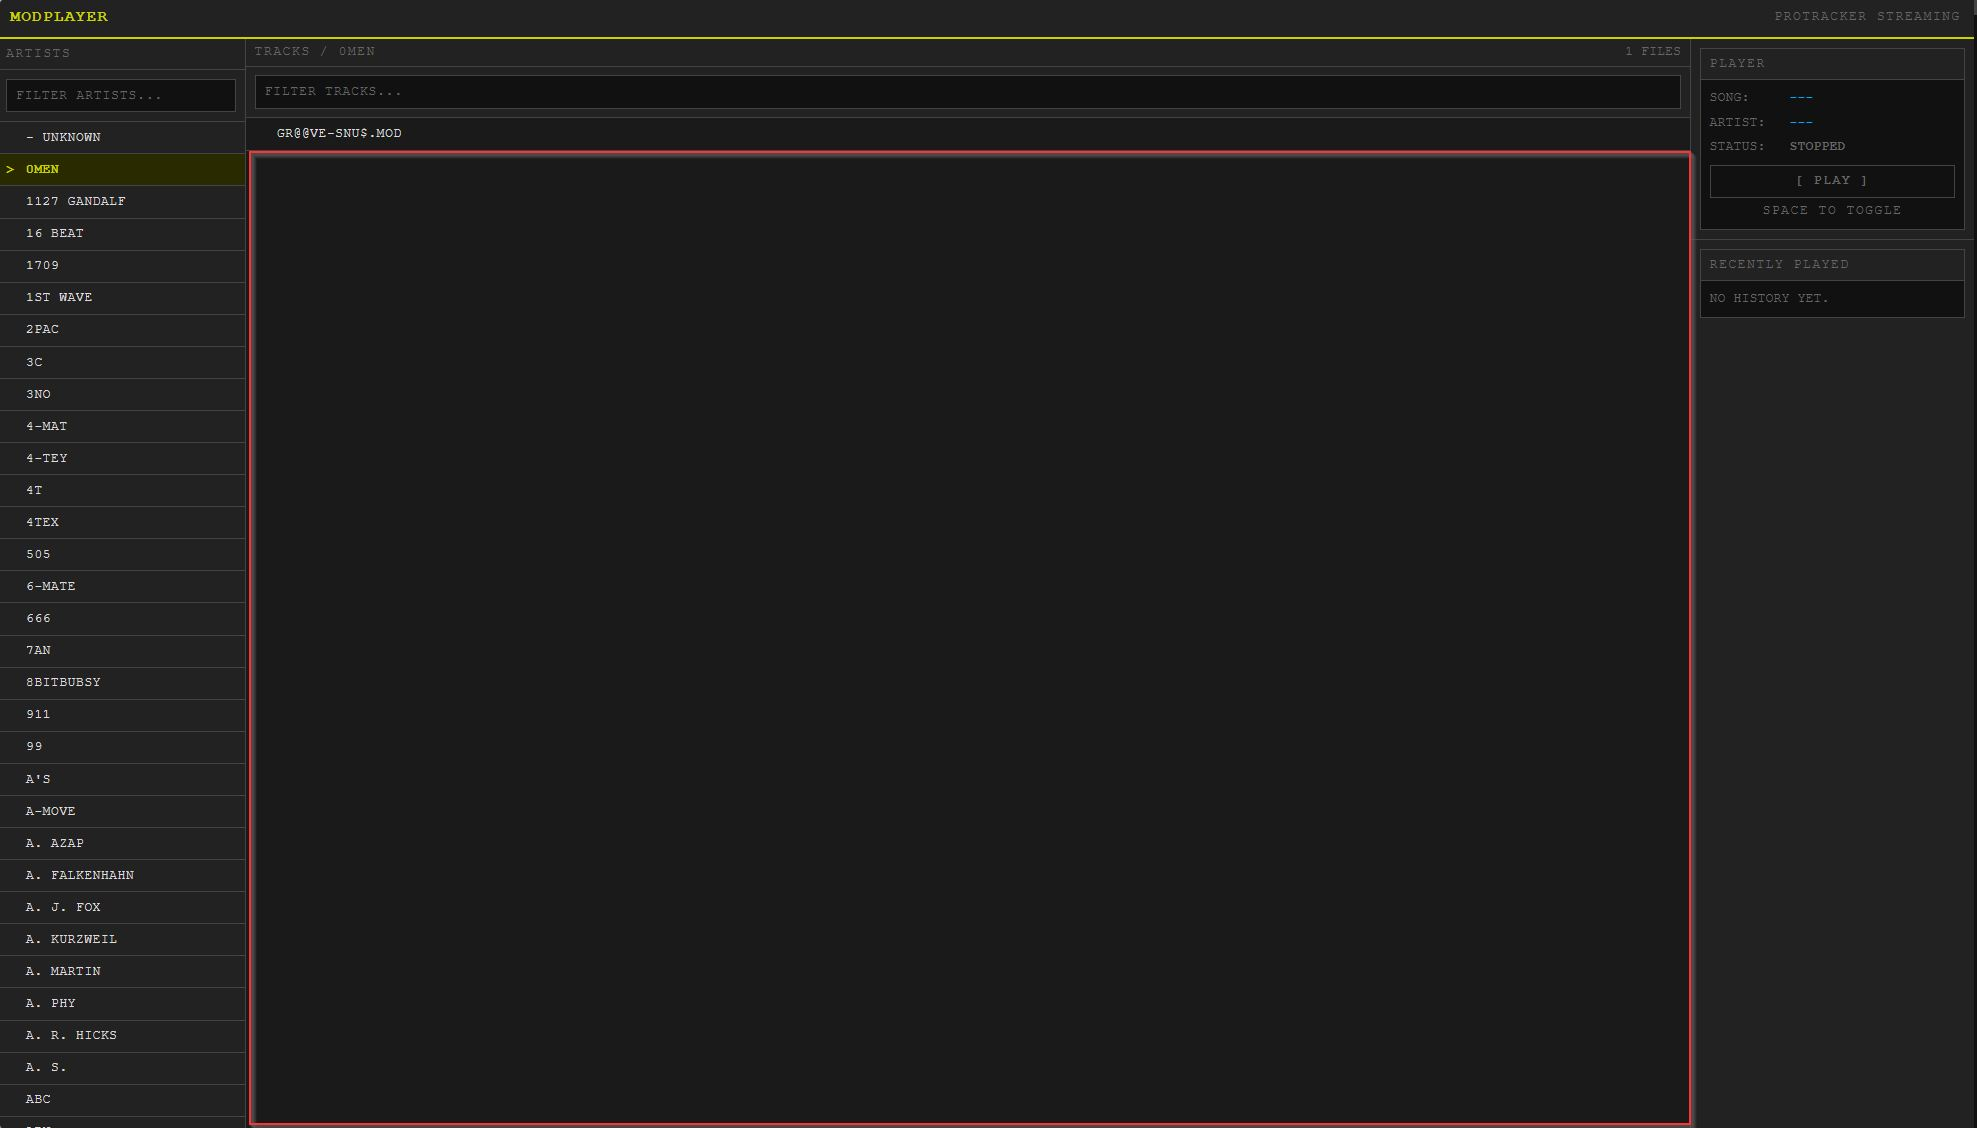
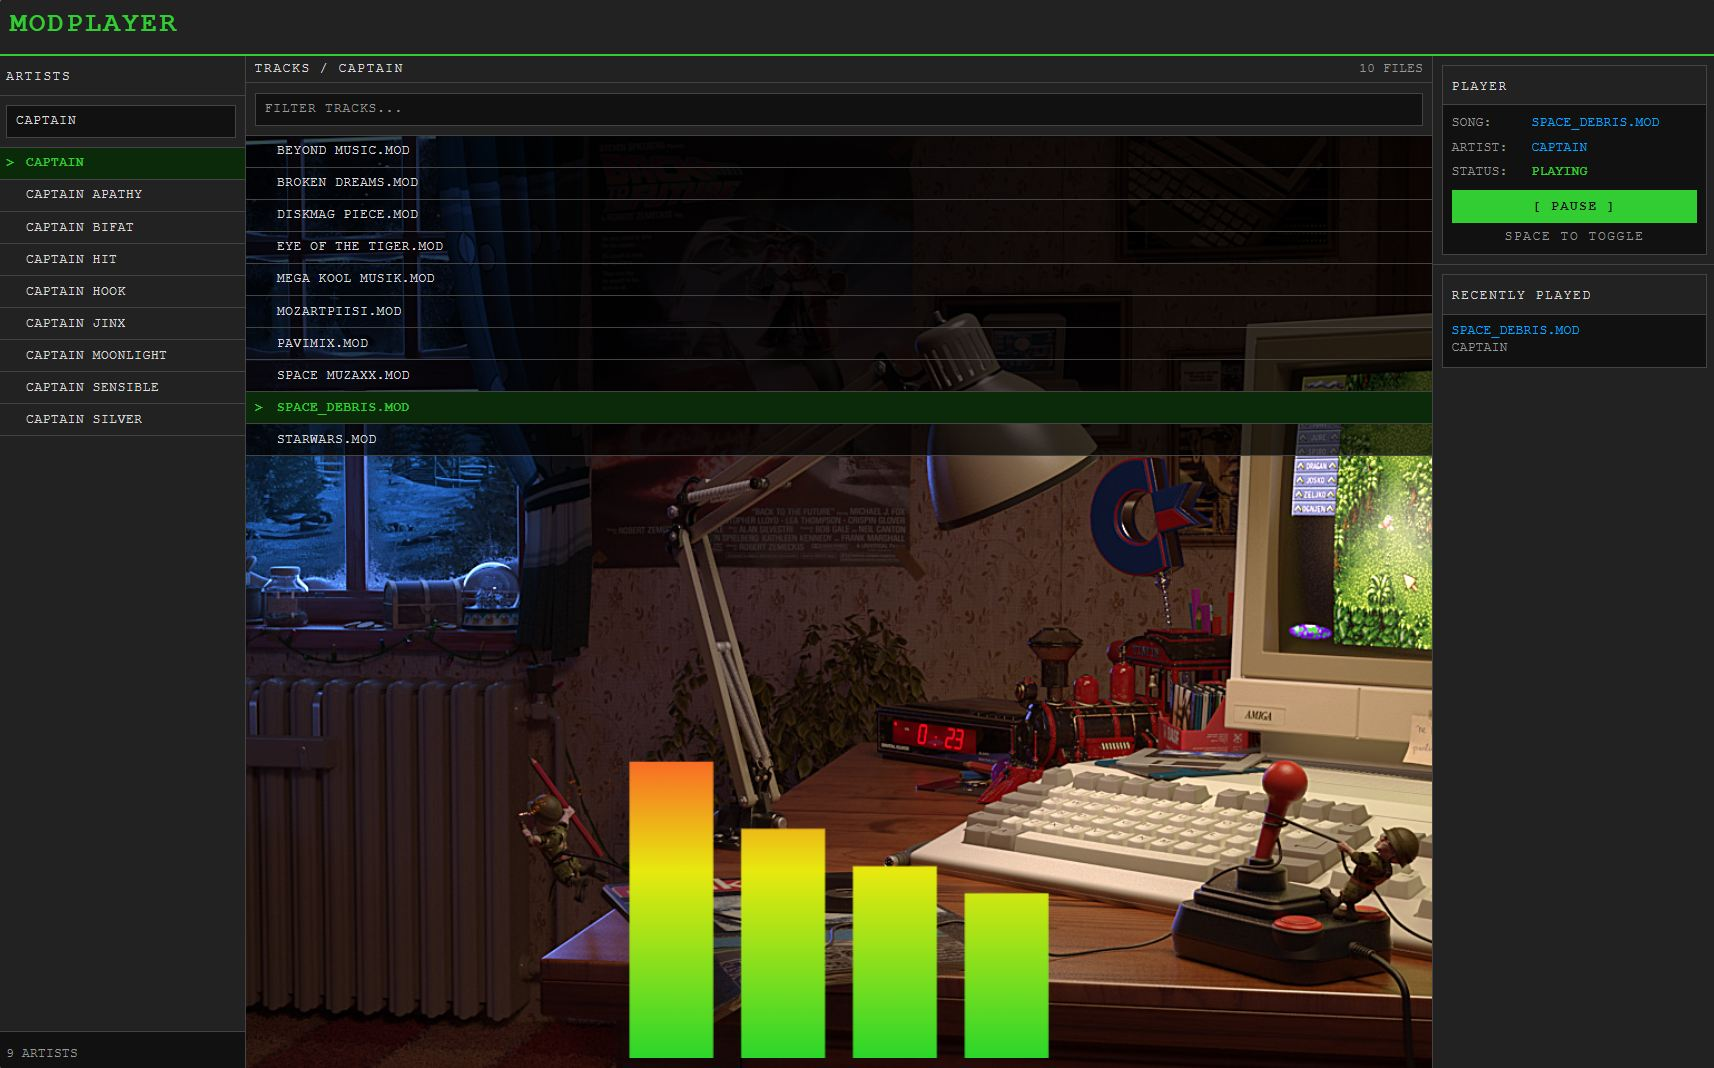
Final 1.0b

diff --git a/src/components/TrackList.tsx b/src/components/TrackList.tsx
@@ -2,10 +2,21 @@ interface Props {
   tracks: string[]
   creator: string
   currentUrl: string | null
+  favouriteUrls: Set<string>
+  favouritesFull: boolean
   onPlay: (name: string) => void
+  onToggleFavourite: (name: string) => void
 }
 
-export function TrackList({ tracks, creator, currentUrl, onPlay }: Props) {
+export function TrackList({
+  tracks,
+  creator,
+  currentUrl,
+  favouriteUrls,
+  favouritesFull,
+  onPlay,
+  onToggleFavourite,
+}: Props) {
   if (tracks.length === 0) {
     return <p className="text-retro-muted text-xs uppercase px-2 py-2">NO TRACKS FOUND.</p>
   }
@@ -15,21 +26,45 @@ export function TrackList({ tracks, creator, currentUrl, onPlay }: Props) {
       {tracks.map((name) => {
         const url = `/modland/pub/modules/Protracker/${encodeURIComponent(creator)}/${encodeURIComponent(name)}`
         const active = currentUrl === url
+        const fav = favouriteUrls.has(url)
+        const lockedOut = !fav && favouritesFull
         return (
           <li key={name} className={`border-b border-retro-border ${active ? 'bg-retro-active' : 'bg-black/70'}`}>
-            <button
-              onClick={() => onPlay(name)}
-              className={`w-full text-left px-2 py-1.5 font-mono text-xs uppercase tracking-wide flex items-center gap-2 transition-colors ${
-                active
-                  ? 'text-retro-accent font-bold'
-                  : 'text-retro-text hover:text-retro-accent hover:bg-[#0a2a0a]'
-              }`}
-            >
-              <span className={`w-3 shrink-0 font-bold ${active ? 'text-retro-accent' : 'text-retro-dark'}`}>
-                {active ? '>' : ''}
-              </span>
-              {name}
-            </button>
+            <div className="flex items-center">
+              <button
+                onClick={() => onPlay(name)}
+                className={`flex-1 min-w-0 text-left px-2 py-1.5 font-mono text-xs uppercase tracking-wide flex items-center gap-2 transition-colors ${
+                  active
+                    ? 'text-retro-accent font-bold'
+                    : 'text-retro-text hover:text-retro-accent hover:bg-[#0a2a0a]'
+                }`}
+              >
+                <span className={`w-3 shrink-0 font-bold ${active ? 'text-retro-accent' : 'text-retro-dark'}`}>
+                  {active ? '>' : ''}
+                </span>
+                <span className="truncate">{name}</span>
+              </button>
+              <button
+                onClick={() => onToggleFavourite(name)}
+                disabled={lockedOut}
+                title={
+                  fav
+                    ? 'Remove from favourites'
+                    : lockedOut
+                    ? 'Favourites full (max 5)'
+                    : 'Add to favourites'
+                }
+                className={`shrink-0 px-2 py-1.5 text-sm transition-colors ${
+                  fav
+                    ? 'text-retro-accent hover:text-retro-text'
+                    : lockedOut
+                    ? 'text-retro-border cursor-not-allowed'
+                    : 'text-retro-muted hover:text-retro-accent'
+                }`}
+              >
+                {fav ? '★' : '☆'}
+              </button>
+            </div>
           </li>
         )
       })}

diff --git a/src/App.tsx b/src/App.tsx
@@ -6,14 +6,17 @@ import { SearchBar } from './components/SearchBar'
 import { TrackList } from './components/TrackList'
 import { Player } from './components/Player'
 import { TrackHistory } from './components/TrackHistory'
+import { Favourites } from './components/Favourites'
 import { SpectrumBars } from './components/SpectrumBars'
+import { MAX_FAVOURITES } from './store/playback'
 
 export default function App() {
   const [creatorSearch, setCreatorSearch] = useState('')
   const [selectedCreator, setSelectedCreator] = useState<string | null>(null)
   const [trackSearch, setTrackSearch] = useState('')
 
-  const { currentTrack, isPlaying, history, setCurrentTrack, setIsPlaying } = usePlaybackStore()
+  const { currentTrack, isPlaying, history, favourites, setCurrentTrack, setIsPlaying, toggleFavourite } =
+    usePlaybackStore()
 
   const { data: creators = [], isLoading: loadingCreators } = useCreators()
   const { data: tracks = [], isLoading: loadingTracks } = useTracks(selectedCreator)
@@ -38,6 +41,14 @@ export default function App() {
       console.error('Failed to load track', err)
     }
   }, [selectedCreator, setCurrentTrack, setIsPlaying])
+
+  const favouriteUrls = new Set(favourites.map((f) => f.url))
+
+  const handleToggleFavourite = useCallback((name: string) => {
+    if (!selectedCreator) return
+    const url = `/modland/pub/modules/Protracker/${encodeURIComponent(selectedCreator)}/${encodeURIComponent(name)}`
+    toggleFavourite({ creator: selectedCreator, name, url })
+  }, [selectedCreator, toggleFavourite])
 
   const handlePlayFromHistory = useCallback(async (track: Track) => {
     try {
@@ -151,7 +162,10 @@ export default function App() {
                       tracks={filteredTracks}
                       creator={selectedCreator}
                       currentUrl={currentTrack?.url ?? null}
+                      favouriteUrls={favouriteUrls}
+                      favouritesFull={favourites.length >= MAX_FAVOURITES}
                       onPlay={handlePlayTrack}
+                      onToggleFavourite={handleToggleFavourite}
                     />
                   )}
                 </div>
@@ -184,6 +198,13 @@ export default function App() {
           </div>
           <div className="p-2">
             <TrackHistory history={history} onPlay={handlePlayFromHistory} />
+          </div>
+          <div className="px-2 pb-2">
+            <Favourites
+              favourites={favourites}
+              onPlay={handlePlayFromHistory}
+              onRemove={toggleFavourite}
+            />
           </div>
         </aside>
       </div>

diff --git a/src/components/Favourites.tsx b/src/components/Favourites.tsx
@@ -1,0 +1,45 @@
+import { Track } from '../store/playback'
+
+interface Props {
+  favourites: Track[]
+  onPlay: (track: Track) => void
+  onRemove: (track: Track) => void
+}
+
+export function Favourites({ favourites, onPlay, onRemove }: Props) {
+  return (
+    <div className="border border-retro-border bg-retro-dark">
+      <div className="px-2 py-1 border-b border-retro-border bg-retro-panel">
+        <span className="text-retro-text text-xs uppercase tracking-widest">FAVOURITES</span>
+      </div>
+      {favourites.length === 0 ? (
+        <p className="text-retro-muted text-xs uppercase px-2 py-2">NO FAVOURITES YET.</p>
+      ) : (
+        <ul>
+          {favourites.map((track, i) => (
+            <li key={track.url} className={i < favourites.length - 1 ? 'border-b border-retro-border' : ''}>
+              <div className="flex items-center group">
+                <button
+                  onClick={() => onPlay(track)}
+                  className="flex-1 min-w-0 text-left px-2 py-1.5 hover:bg-[#0a2a0a]"
+                >
+                  <p className="text-retro-cyan text-xs uppercase truncate font-mono group-hover:text-retro-accent">
+                    {track.name}
+                  </p>
+                  <p className="text-retro-muted text-xs uppercase truncate font-mono">{track.creator}</p>
+                </button>
+                <button
+                  onClick={() => onRemove(track)}
+                  title="Remove from favourites"
+                  className="shrink-0 px-2 self-stretch text-sm text-retro-accent hover:text-retro-text"
+                >
+                  ★
+                </button>
+              </div>
+            </li>
+          ))}
+        </ul>
+      )}
+    </div>
+  )
+}

diff --git a/src/store/playback.ts b/src/store/playback.ts
@@ -6,22 +6,37 @@ export interface Track {
   url: string
 }
 
+export const MAX_FAVOURITES = 5
+
 interface PlaybackState {
   currentTrack: Track | null
   isPlaying: boolean
   history: Track[]
+  favourites: Track[]
   setCurrentTrack: (track: Track) => void
   setIsPlaying: (playing: boolean) => void
+  toggleFavourite: (track: Track) => void
 }
 
 export const usePlaybackStore = create<PlaybackState>((set) => ({
   currentTrack: null,
   isPlaying: false,
   history: [],
+  favourites: [],
   setCurrentTrack: (track) =>
     set((state) => ({
       currentTrack: track,
       history: [track, ...state.history.filter((t) => t.url !== track.url)].slice(0, 3),
     })),
   setIsPlaying: (playing) => set({ isPlaying: playing }),
+  toggleFavourite: (track) =>
+    set((state) => {
+      const exists = state.favourites.some((f) => f.url === track.url)
+      if (exists) {
+        return { favourites: state.favourites.filter((f) => f.url !== track.url) }
+      }
+      // Cap at MAX_FAVOURITES; ignore further additions once full.
+      if (state.favourites.length >= MAX_FAVOURITES) return state
+      return { favourites: [...state.favourites, track] }
+    }),
 }))
